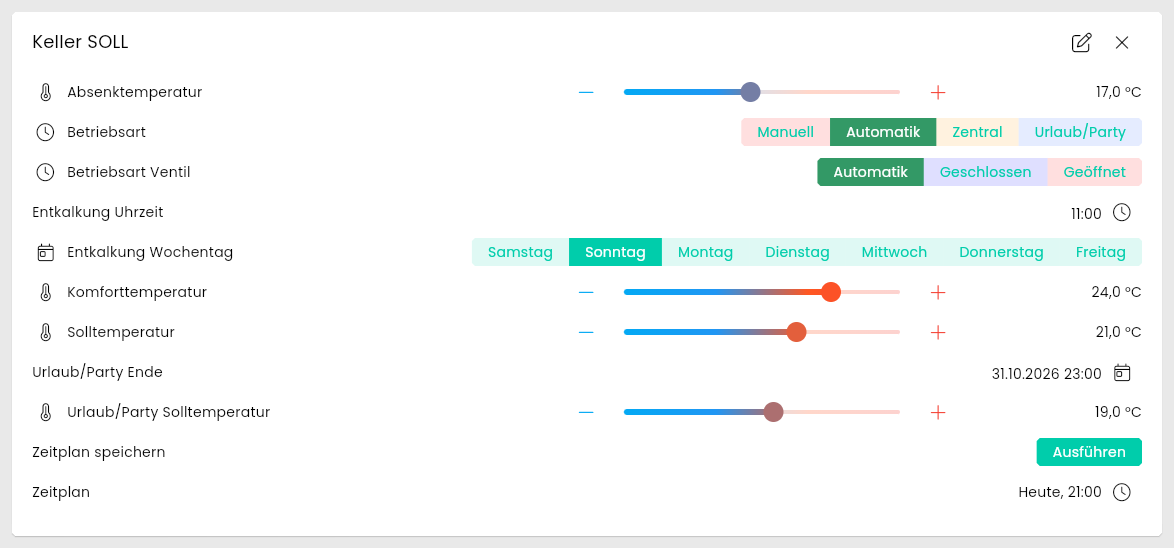
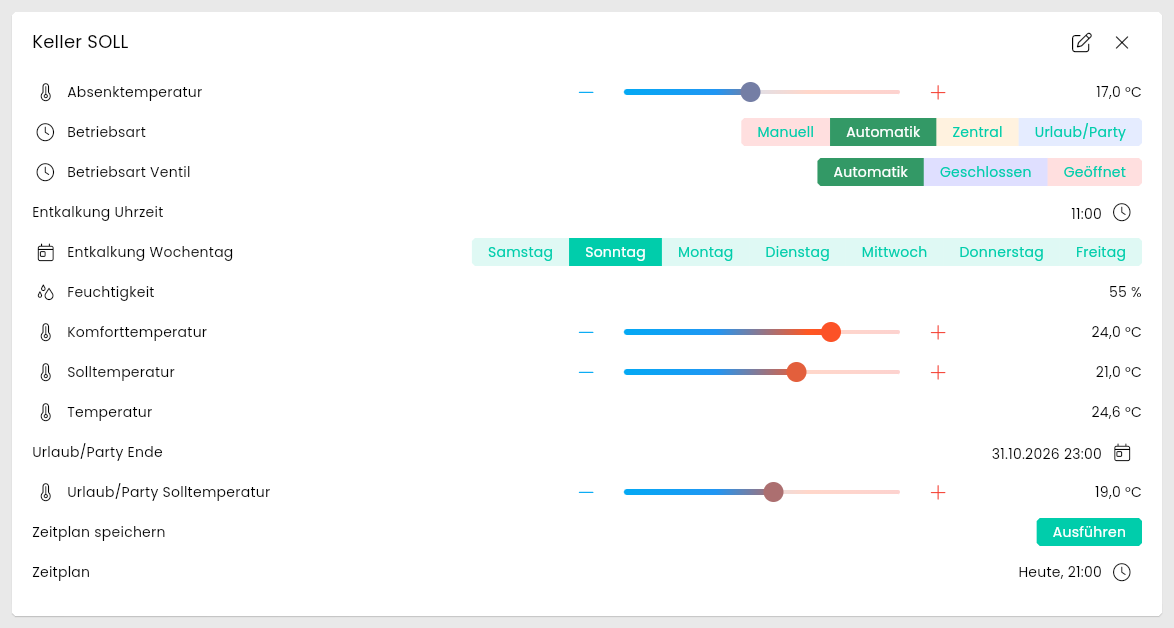
HM-CC-TC: Ist-Temperatur und Feuchtigkeit aus Kanal 1, HmIP-Heizgruppe: Profilanzahl beim Speichern
- HMHeatingDevice: optionaler zweiter Werte-Kanal (WeatherChannel/WeatherDatapoints),
  Empfangsfilter, Anlegen, Lesen und RequestState berücksichtigen ihn
- HM-CC-TC: TEMPERATURE und HUMIDITY aus Kanal :1 (rf_cc_tc.xml), Thermostat-Kachel möglich
- "Zeitplan speichern in Profil" übernimmt MIN/MAX des aktiven Profils (HmIP-Gruppe 1 bis 3)
- Tests, README, Changelog 3.82, Screenshots HM-CC-TC

diff --git a/libs/HMHeatingDevice.php b/libs/HMHeatingDevice.php
@@ -25,6 +25,10 @@ class HMHeatingDevice extends HMBase
 {
     protected const ValuesChannel = '';
     protected const ParamChannel = '';
+    /** Weiterer Kanal mit Messwerten im Paramset VALUES (z.B. HM-CC-TC :1), leer wenn keiner. */
+    protected const WeatherChannel = '';
+    /** Datenpunkte des Kanals WeatherChannel. */
+    protected const WeatherDatapoints = [];
     protected const DeviceTyp = '';
 
     protected const WeekScheduleIndexTemp = 'P%3$d_TEMPERATURE_%2$s_%1$d';
@@ -143,7 +147,13 @@ class HMHeatingDevice extends HMBase
 
         $this->WeekProfile = 1;
         $Address = $this->ReadPropertyString(\HMExtended\Device\Property::Address);
-        $this->SetReceiveDataFilter($Address == '' ? '.*9999999999.*' : '.*"DeviceID":"' . $Address . static::ValuesChannel . '.*');
+        if ($Address == '') {
+            $this->SetReceiveDataFilter('.*9999999999.*');
+        } elseif (static::WeatherChannel == '') {
+            $this->SetReceiveDataFilter('.*"DeviceID":"' . $Address . static::ValuesChannel . '.*');
+        } else {
+            $this->SetReceiveDataFilter('.*"DeviceID":"' . $Address . '(' . static::ValuesChannel . '|' . static::WeatherChannel . ')".*');
+        }
 
         foreach (\HMExtended\ValuesSet::$Variables[static::DeviceTyp] as $Ident => $VarData) {
             $Property = isset($VarData[4]) ? $VarData[4] : $Ident;
@@ -173,12 +183,12 @@ class HMHeatingDevice extends HMBase
                     break;
             }
             if ($PresentationSubmitPlan) {
-                $isOld = $this->FindIDForIdent(\HMExtended\Variables::SELECT_NEW_WEEK_PROGRAM);
-                $this->MaintainHeatingVariable(\HMExtended\Variables::SELECT_NEW_WEEK_PROGRAM, $this->Translate('Schedule save in profile'), VARIABLETYPE_INTEGER, $PresentationSubmitPlan, true, []);
-                $this->EnableAction(\HMExtended\Variables::SELECT_NEW_WEEK_PROGRAM);
-                if (!$isOld) {
+                // Darstellung und Anzahl der Profile pflegt MaintainSelectWeekProgram (Beschreibung des aktiven Profils laut CCU).
+                if (!$this->FindIDForIdent(\HMExtended\Variables::SELECT_NEW_WEEK_PROGRAM)) {
+                    $this->MaintainHeatingVariable(\HMExtended\Variables::SELECT_NEW_WEEK_PROGRAM, $this->Translate('Schedule save in profile'), VARIABLETYPE_INTEGER, $PresentationSubmitPlan, true, []);
                     $this->SetValue(\HMExtended\Variables::SELECT_NEW_WEEK_PROGRAM, 1);
                 }
+                $this->EnableAction(\HMExtended\Variables::SELECT_NEW_WEEK_PROGRAM);
             }
             $this->MaintainHeatingVariable(\HMExtended\Variables::SUBMIT_WEEK_PROGRAM, $this->Translate('Schedule save'), VARIABLETYPE_INTEGER, \HMExtended\HeatingPresentation::Execute, true, []);
             $this->EnableAction(\HMExtended\Variables::SUBMIT_WEEK_PROGRAM);
@@ -215,7 +225,7 @@ class HMHeatingDevice extends HMBase
             echo $this->Translate('Invalid Ident for VALUE.') . PHP_EOL;
             return false;
         }
-        $AddressWithChannel = $this->ReadPropertyString(\HMExtended\Device\Property::Address) . static::ValuesChannel;
+        $AddressWithChannel = $this->ReadPropertyString(\HMExtended\Device\Property::Address) . $this->ValuesChannelOf($Ident);
         $Result = $this->SendRPC('getValue', $this->ReadPropertyInteger(\HMExtended\Device\Property::Protocol), [$AddressWithChannel, $Ident]);
         if ($Result === null) {
             return false;
@@ -341,6 +351,38 @@ class HMHeatingDevice extends HMBase
     {
         return array_key_exists($Ident, \HMExtended\ValuesSet::$Variables[static::DeviceTyp] ?? [])
             || array_key_exists($Ident, \HMExtended\ParamSet::$Variables[static::DeviceTyp] ?? []);
+    }
+
+    /**
+     * Liest das Paramset VALUES des Kanals ValuesChannel und, falls vorhanden, des Kanals WeatherChannel.
+     *
+     * @return bool true, wenn die CCU die Werte aller Kanäle geliefert hat.
+     */
+    protected function GetValuesAndSetVariable(): bool
+    {
+        if (!parent::GetValuesAndSetVariable()) {
+            return false;
+        }
+        if (static::WeatherChannel == '') {
+            return true;
+        }
+        $Result = $this->GetParamset(\HMExtended\CCU::VALUES, $this->ReadPropertyString(\HMExtended\Device\Property::Address) . static::WeatherChannel);
+        foreach ($Result as $Ident => $Value) {
+            $this->SetVariable($Ident, $Value);
+        }
+        return count($Result) != 0;
+    }
+
+    /**
+     * Liefert den Kanal, zu dem ein Datenpunkt des Paramsets VALUES gehört.
+     *
+     * @param string $Ident Name des Datenpunktes.
+     *
+     * @return string Der Kanal (z.B. ':2').
+     */
+    protected function ValuesChannelOf(string $Ident): string
+    {
+        return in_array($Ident, static::WeatherDatapoints) ? static::WeatherChannel : static::ValuesChannel;
     }
 
     /**
@@ -584,9 +626,25 @@ class HMHeatingDevice extends HMBase
         $this->RefreshScheduleObject();
     }
 
+    /**
+     * Legt die Statusvariablen für das Paramset VALUES aller Kanäle an (ValuesChannel, WeatherChannel).
+     *
+     * @return bool true, wenn die CCU alle Beschreibungen geliefert hat.
+     */
     private function CreateVariablesFromValues(): bool
     {
-        $AddressWithChannel = $this->ReadPropertyString(\HMExtended\Device\Property::Address) . static::ValuesChannel;
+        $Channels = (static::WeatherChannel == '') ? [static::ValuesChannel] : [static::ValuesChannel, static::WeatherChannel];
+        foreach ($Channels as $Channel) {
+            if (!$this->CreateVariablesFromChannelValues($Channel)) {
+                return false;
+            }
+        }
+        return true;
+    }
+
+    private function CreateVariablesFromChannelValues(string $Channel): bool
+    {
+        $AddressWithChannel = $this->ReadPropertyString(\HMExtended\Device\Property::Address) . $Channel;
         $Result = $this->GetParamsetDescription(\HMExtended\CCU::VALUES, $AddressWithChannel);
         if (count($Result) == 0) {
             return false;
@@ -618,8 +676,26 @@ class HMHeatingDevice extends HMBase
             if ($HasAction) {
                 $this->EnableAction($Ident);
             }
+            if (($Ident == static::SelectedWeekScheduleIdent) && $this->FindIDForIdent(\HMExtended\Variables::SELECT_NEW_WEEK_PROGRAM)) {
+                $this->MaintainSelectWeekProgram($Presentation, $Variable);
+            }
         }
         return true;
+    }
+
+    /**
+     * Gleicht die Auswahl „Zeitplan speichern in Profil“ an die Profile an, die das Gerät laut CCU umschalten kann
+     * (z.B. 1..3 bei einer HmIP-Heizgruppe, obwohl das Paramset MASTER 6 Profile enthält).
+     *
+     * @param string $Presentation Schlüssel der Darstellung des aktiven Profils.
+     * @param array $Description Beschreibung des Datenpunktes für das aktive Profil laut CCU.
+     */
+    private function MaintainSelectWeekProgram(string $Presentation, array $Description): void
+    {
+        $this->MaintainHeatingVariable(\HMExtended\Variables::SELECT_NEW_WEEK_PROGRAM, $this->Translate('Schedule save in profile'), VARIABLETYPE_INTEGER, $Presentation, true, $Description);
+        if (is_numeric($Description['MAX'] ?? null) && ($this->GetValue(\HMExtended\Variables::SELECT_NEW_WEEK_PROGRAM) > (int) $Description['MAX'])) {
+            $this->SetValue(\HMExtended\Variables::SELECT_NEW_WEEK_PROGRAM, 1);
+        }
     }
 
     private function CreateVariablesFromParams(): bool
@@ -665,6 +741,9 @@ class HMHeatingDevice extends HMBase
                 $this->MaintainHeatingVariable($Ident, $Name, $VarType, $Presentation, $HasAction, ($Ident == $Variable['ID']) ? $Variable : []);
                 if ($HasAction) {
                     $this->EnableAction($Ident);
+                }
+                if (($Ident == static::SelectedWeekScheduleIdent) && $this->FindIDForIdent(\HMExtended\Variables::SELECT_NEW_WEEK_PROGRAM)) {
+                    $this->MaintainSelectWeekProgram($Presentation, $Variable);
                 }
             }
         }

diff --git a/tests/ClimacontrolRegulatorTest.php b/tests/ClimacontrolRegulatorTest.php
@@ -32,8 +32,9 @@ class ClimacontrolRegulatorTest extends HeatingTestCase
         parent::setUp();
         $this->IoId = $this->createFakeIo();
         FakeHomematicIO::$RpcResponses = [
-            'getParamsetDescription:VALUES' => $this->description(['SETPOINT' => 'FLOAT']),
-            'getParamset:VALUES'            => ['SETPOINT' => 21.0],
+            // Die Fake-CCU antwortet je Paramset, Kanal :1 (TEMPERATURE, HUMIDITY) und :2 (SETPOINT) erhalten dieselbe Antwort.
+            'getParamsetDescription:VALUES' => $this->description(['SETPOINT' => 'FLOAT', 'TEMPERATURE' => 'FLOAT', 'HUMIDITY' => 'INTEGER']),
+            'getParamset:VALUES'            => ['SETPOINT' => 21.0, 'TEMPERATURE' => 22.4, 'HUMIDITY' => 55],
             'getParamsetDescription:MASTER' => $this->description([
                 'MODE_TEMPERATUR_REGULATOR' => 'INTEGER',
                 'DECALCIFICATION_DAY'       => 'INTEGER',
@@ -83,6 +84,43 @@ class ClimacontrolRegulatorTest extends HeatingTestCase
         ], $Params);
         // Das gespeicherte Zeitprofil enthält die gerundeten Zeiten, der Wochenplan zeigt sie nach dem Speichern an.
         $this->assertSame(['Time' => 370, 'Temp' => 17.0], $Schedule[32][1]);
+    }
+
+    /**
+     * Kanal :1 (WEATHER, rf_cc_tc.xml) liefert Ist-Temperatur und Luftfeuchte.
+     */
+    public function testWeatherChannelIsCreatedAndRead(): void
+    {
+        IPS_ApplyChanges($this->DeviceId);
+        $Addresses = array_map(fn ($Request) => $Request['Data'][0], $this->requests('getParamset', 'VALUES'));
+        $this->assertSame(['IEQ0000001:2', 'IEQ0000001:1'], $Addresses);
+        $this->assertSame(22.4, GetValueFloat($this->variable('TEMPERATURE')));
+        $this->assertSame(55, GetValueInteger($this->variable('HUMIDITY')));
+        $this->assertFalse(HasAction($this->variable('TEMPERATURE')));
+    }
+
+    public function testReceiveFilterMatchesBothChannels(): void
+    {
+        $Filter = '/' . $this->device()->GetReceiveDataFilter() . '/';
+        $this->assertSame(1, preg_match($Filter, '{"DeviceID":"IEQ0000001:1","VariableName":"TEMPERATURE"}'));
+        $this->assertSame(1, preg_match($Filter, '{"DeviceID":"IEQ0000001:2","VariableName":"SETPOINT"}'));
+        $this->assertSame(0, preg_match($Filter, '{"DeviceID":"IEQ0000001:3","VariableName":"STATE"}'));
+        $this->assertSame(0, preg_match($Filter, '{"DeviceID":"IEQ0000001:12","VariableName":"STATE"}'));
+    }
+
+    public function testWeatherEventSetsVariable(): void
+    {
+        $this->device()->ReceiveData(json_encode(['DeviceID' => 'IEQ0000001:1', 'VariableName' => 'TEMPERATURE', 'VariableValue' => 19.8]));
+        $this->assertSame(19.8, GetValueFloat($this->variable('TEMPERATURE')));
+    }
+
+    public function testRequestStateReadsWeatherDatapointFromChannelOne(): void
+    {
+        FakeHomematicIO::$RpcResponses['getValue'] = 23.1;
+        $this->assertTrue($this->device()->RequestState('TEMPERATURE'));
+        $this->assertSame(['IEQ0000001:1', 'TEMPERATURE'], $this->requests('getValue')[0]['Data']);
+        $this->assertTrue($this->device()->RequestState('SETPOINT'));
+        $this->assertSame(['IEQ0000001:2', 'SETPOINT'], $this->requests('getValue')[1]['Data']);
     }
 
     public function testScheduleAcceptsTwentyFourPointsPerDay(): void

diff --git a/libs/HMTypes.php b/libs/HMTypes.php
@@ -125,6 +125,9 @@ namespace HMExtended
         public const ADJUSTING_DATA = 'ADJUSTING_DATA';
         public const ADJUSTING_COMMAND = 'ADJUSTING_COMMAND';
         public const STATE = 'STATE';
+        //Values Kanal :1 (WEATHER)
+        public const TEMPERATURE = 'TEMPERATURE';
+        public const HUMIDITY = 'HUMIDITY';
         //Params
         public const MODE_TEMPERATUR_REGULATOR = 'MODE_TEMPERATUR_REGULATOR';
         public const DECALCIFICATION_DAY = 'DECALCIFICATION_DAY';
@@ -648,6 +651,19 @@ namespace HMExtended
                 ],
                 ClimacontrolRegulator::STATE => [
                     \HMExtended\Variables::VARIABLETYPE_NONE
+                ],
+                // Kanal :1 (rf_cc_tc.xml, cc_tc_ch_weather_values): TEMPERATURE -40..80 °C, HUMIDITY 0..99 %.
+                ClimacontrolRegulator::TEMPERATURE => [
+                    VARIABLETYPE_FLOAT,
+                    HeatingPresentation::Temperature,
+                    false,
+                    'Temperature'
+                ],
+                ClimacontrolRegulator::HUMIDITY => [
+                    VARIABLETYPE_INTEGER,
+                    HeatingPresentation::Humidity,
+                    false,
+                    'Humidity'
                 ],
             ],
             DeviceType::HeatingGroupHmIP => [

diff --git a/ClimacontrolRegulator/module.php b/ClimacontrolRegulator/module.php
@@ -24,6 +24,12 @@ class HomeMaticClimateControlRegulator extends HMHeatingDevice
     public const DeviceTyp = \HMExtended\DeviceType::ClimacontrolRegulator;
     public const ValuesChannel = \HMExtended\Channels::Second;
     public const ParamChannel = \HMExtended\Channels::Second;
+    /** Kanal :1 (WEATHER) liefert Ist-Temperatur und Luftfeuchte des Gerätes. */
+    protected const WeatherChannel = \HMExtended\Channels::First;
+    protected const WeatherDatapoints = [
+        \HMExtended\ClimacontrolRegulator::TEMPERATURE,
+        \HMExtended\ClimacontrolRegulator::HUMIDITY
+    ];
 
     protected const WeekScheduleIndexTemp = 'TEMPERATUR_%2$s_%1$d';
     protected const WeekScheduleIndexEndTime = 'TIMEOUT_%2$s_%1$d';

diff --git a/ClimacontrolRegulator/README.md b/ClimacontrolRegulator/README.md
@@ -88,6 +88,8 @@ Welche Statusvariablen angelegt werden, richtet sich nach dem Gerät und den Opt
 | Name | Ident | Typ | Bedienbar | Optional | Quelle | Darstellung |
 | :--- | :---- | :-- | :-------- | :------- | :----- | :---------- |
 | Solltemperatur | SETPOINT | Float | ja |  | Werte | Schieberegler Temperatur ¹ |
+| Temperatur | TEMPERATURE | Float | nein |  | Werte (Kanal 1) | Wertanzeige °C, Verwendung Temperatur |
+| Feuchtigkeit | HUMIDITY | Integer | nein |  | Werte (Kanal 1) | Wertanzeige % |
 | Betriebsart | MODE_TEMPERATUR_REGULATOR | Integer | ja |  | Parameter | Aufzählung (Manuell, Automatik, Zentral, Urlaub/Party) |
 | Entkalkung Wochentag | DECALCIFICATION_DAY | Integer | ja | ja (aus) | Parameter | Aufzählung (Samstag bis Freitag) |
 | Entkalkung Uhrzeit | DECALCIFICATION_TIME | Integer | ja | ja (aus) | Parameter | Datum/Uhrzeit (Uhrzeit) |
@@ -117,7 +119,13 @@ Zusätzlich werden bei aktivem Wochenplan angelegt:
 
 ### Kachel Visualisierung
 
-Der HM-CC-TC liefert in diesem Modul keine Ist-Temperatur, die Instanz erscheint daher als Liste:  
+Die Instanz erscheint als Thermostat-Kachel mit Soll- und Ist-Temperatur:  
+
+![Kachel](imgs/tile_instance.png)  
+
+Welche Statusvariablen die Kachel als Soll- und Ist-Temperatur zeigt, wird an der Kachel eingestellt: oben rechts den Stift (Größe und Position der Kacheln anpassen) wählen, dann den Stift der Kachel und unter `Soll Temperatur` die `Solltemperatur` sowie unter `Ist Temperatur` die `Temperatur` auswählen. Mehrere Statusvariablen geben eine Temperatur vor (z.B. Urlaub/Party, Komfort- und Absenktemperatur), ohne diese Einstellung zeigt die Kachel unter Umständen eine davon.  
+
+Maximiert zeigt die Kachel alle Statusvariablen:  
 
 ![Kachel Liste](imgs/tile_list.png)  
 
@@ -161,6 +169,7 @@ Der vollständige Changelog der Library steht in der [Haupt-README](../README.md
 
 **Version 3.82:**
 
+- Neue Statusvariablen `Temperatur` (Ist-Temperatur) und `Feuchtigkeit` aus Kanal 1 des Gerätes. Die Kachel-Visualisierung zeigt die Instanz damit als Thermostat-Kachel.  
 - Wochenplan: Die Zeiten werden beim Speichern auf das Raster des Gerätes (10 Minuten) gerundet, bisher schnitt die CCU ab und der Wochenplan in Symcon zeigte andere Zeiten. Mehr als 24 Schaltpunkte an einem Tag werden mit einer Meldung abgelehnt statt mit einem Fehler der CCU.  
 - Wochenplan: Temperaturen erst ab 6 °C (Grenze des Gerätes), auch in der Liste `Temperaturen anpassen`.  
 - Die Statusvariablen nutzen Darstellungen statt Variablenprofilen (Spalte `Darstellung`). Variablen und Archivdaten bleiben erhalten, die Profile der Library werden gelöscht, sobald keine Variable sie mehr nutzt.  

diff --git a/README.md b/README.md
@@ -179,6 +179,10 @@ Erweitert IPS um die native Unterstützung von:
 >
 > **HomeMatic Systemvariablen:** `HM_WriteValueBoolean2`, `HM_WriteValueInteger2`, `HM_WriteValueFloat2` und `HM_WriteValueString2` erzeugen keine Warnung mehr im Log.
 
+**Neue Statusvariablen**
+
+* HomeMatic Climate Control Regulator (HM-CC-TC): `Temperatur` (Ist-Temperatur) und `Feuchtigkeit` aus Kanal 1 des Gerätes. Damit zeigt die Kachel-Visualisierung die Instanz als Thermostat-Kachel.  
+
 **Geändertes Verhalten**
 
 * Heizungsmodule: Die Soll-Temperatur ist ein Schieberegler mit Verwendung `Temperatur`. Minimum und Maximum kommen von der CCU und passen zum jeweiligen Gerät (z.B. HM-CC-TC 6 bis 30 °C mit `Ventil geschlossen` und `Ventil offen`, HM-CC-RT-DN und HmIP 4,5 °C = `Aus` bis 30,5 °C = `An`, HM-CC-VG-1 5 bis 30 °C). Die Anzahl der wählbaren Wochenprofile entspricht den Profilen des Geräts.  
@@ -191,8 +195,8 @@ Erweitert IPS um die native Unterstützung von:
 * HomeMatic Powermeter: Hatte das Gerät einzelne Werte noch nie gesendet (z.B. HM-ES-TX-WM im Strommodus die Gas-Werte), schlug das Übernehmen mit `Fehler bei getParamset` fehl und die Statusvariablen wurden nicht gepflegt. Die Werte werden jetzt einzeln gelesen.  
 * HomeMatic Powermeter, Heizungsmodule, Programme und Weather: Nach einem Fehler beim Erstellen der Instanz (z.B. CCU beim Neuladen nicht erreichbar) blieb der Status auf `wird erstellt` (101), auch nach erfolgreichem Übernehmen.  
 * HomeMatic WR-Interface, RF-Interface Splitter, Systemvariablen und Alarmvariable: Beim Start von Symcon meldeten sie `Keine aktive Parent Instanz!`, wenn der Homematic Socket noch nicht verbunden war. Gelesen wird jetzt erst, wenn der Socket aktiv ist.  
-* Heizungsmodule: Das Debug meldete `Unknown variable` auch für bekannte Datenpunkte, deren Statusvariable in der Konfiguration abgewählt ist.  
 * Heizungsmodule, Wochenplan: Die Zeiten werden beim Speichern auf das Raster des Gerätes gerundet (HM-CC-TC 10 Minuten, sonst 5 Minuten), bisher schnitt die CCU ab und der Wochenplan in Symcon zeigte andere Zeiten. Mehr Schaltpunkte an einem Tag, als das Gerät kennt (HM-CC-TC 24, sonst 13), werden mit einer Meldung abgelehnt statt mit einem Fehler der CCU. HM-CC-TC: Temperaturen im Wochenplan erst ab 6 °C.  
+* HomeMatic Heating Group HmIP: `Zeitplan speichern in Profil` bot die Profile 1 bis 6 an, die Heizgruppe kann aber nur die Profile 1 bis 3 umschalten. Die Auswahl übernimmt jetzt die Anzahl von `Aktives Zeitprofil`.  
 
 **Version 3.81:**  
 

diff --git a/HeatingGroupHmIP/README.md b/HeatingGroupHmIP/README.md
@@ -133,7 +133,7 @@ Zusätzlich werden bei aktivem Wochenplan angelegt:
 | Name | Ident | Typ | Bedienbar | Beschreibung |
 | :--- | :---- | :-- | :-------- | :----------- |
 | Wochenplan | WEEK_PROFIL | Ereignis | ja | Wochenplan des aktiven Zeitprofils. Die Aktionen sind die Temperaturen. |
-| Zeitplan speichern in Profil | SELECT_NEW_WEEK_PROGRAM | Integer | ja | Zeitprofil der CCU (1 bis 6), in das der Wochenplan gespeichert wird. |
+| Zeitplan speichern in Profil | SELECT_NEW_WEEK_PROGRAM | Integer | ja | Zeitprofil der CCU, in das der Wochenplan gespeichert wird. Die Auswahl entspricht den Profilen von `Aktives Zeitprofil` (Heizgruppe: 1 bis 3). |
 | Zeitplan speichern | SUBMIT_WEEK_PROGRAM | Integer | ja | Überträgt den Wochenplan in das gewählte Zeitprofil zur CCU. |
 
 ¹ Schieberegler mit Verwendung Temperatur, Schrittweite 0,5 °C. Minimum und Maximum liefert die CCU je Gerät (HmIP: 4,5 °C = `Aus` bis 30,5 °C = `An`).  
@@ -198,6 +198,7 @@ Der vollständige Changelog der Library steht in der [Haupt-README](../README.md
 - Wochenplan: Die Zeiten werden beim Speichern auf das Raster des Gerätes (5 Minuten) gerundet, bisher schnitt die CCU ab und der Wochenplan in Symcon zeigte andere Zeiten. Mehr als 13 Schaltpunkte an einem Tag werden mit einer Meldung abgelehnt statt mit einem Fehler der CCU.  
 - Die Statusvariablen nutzen Darstellungen statt Variablenprofilen. Variablen und Archivdaten bleiben erhalten. Die Profile der Library werden gelöscht, sobald keine Variable sie mehr nutzt (Spalte `Darstellung`).  
 - Die Temperaturen übernehmen Minimum und Maximum von der CCU, die Anzahl der wählbaren Zeitprofile entspricht dem Gerät.  
+- `Zeitplan speichern in Profil` bot die Profile 1 bis 6 an, obwohl die Heizgruppe nur 1 bis 3 umschalten kann. Die Auswahl übernimmt jetzt die Anzahl von `Aktives Zeitprofil`.  
 
 **Version 3.81:**
 
